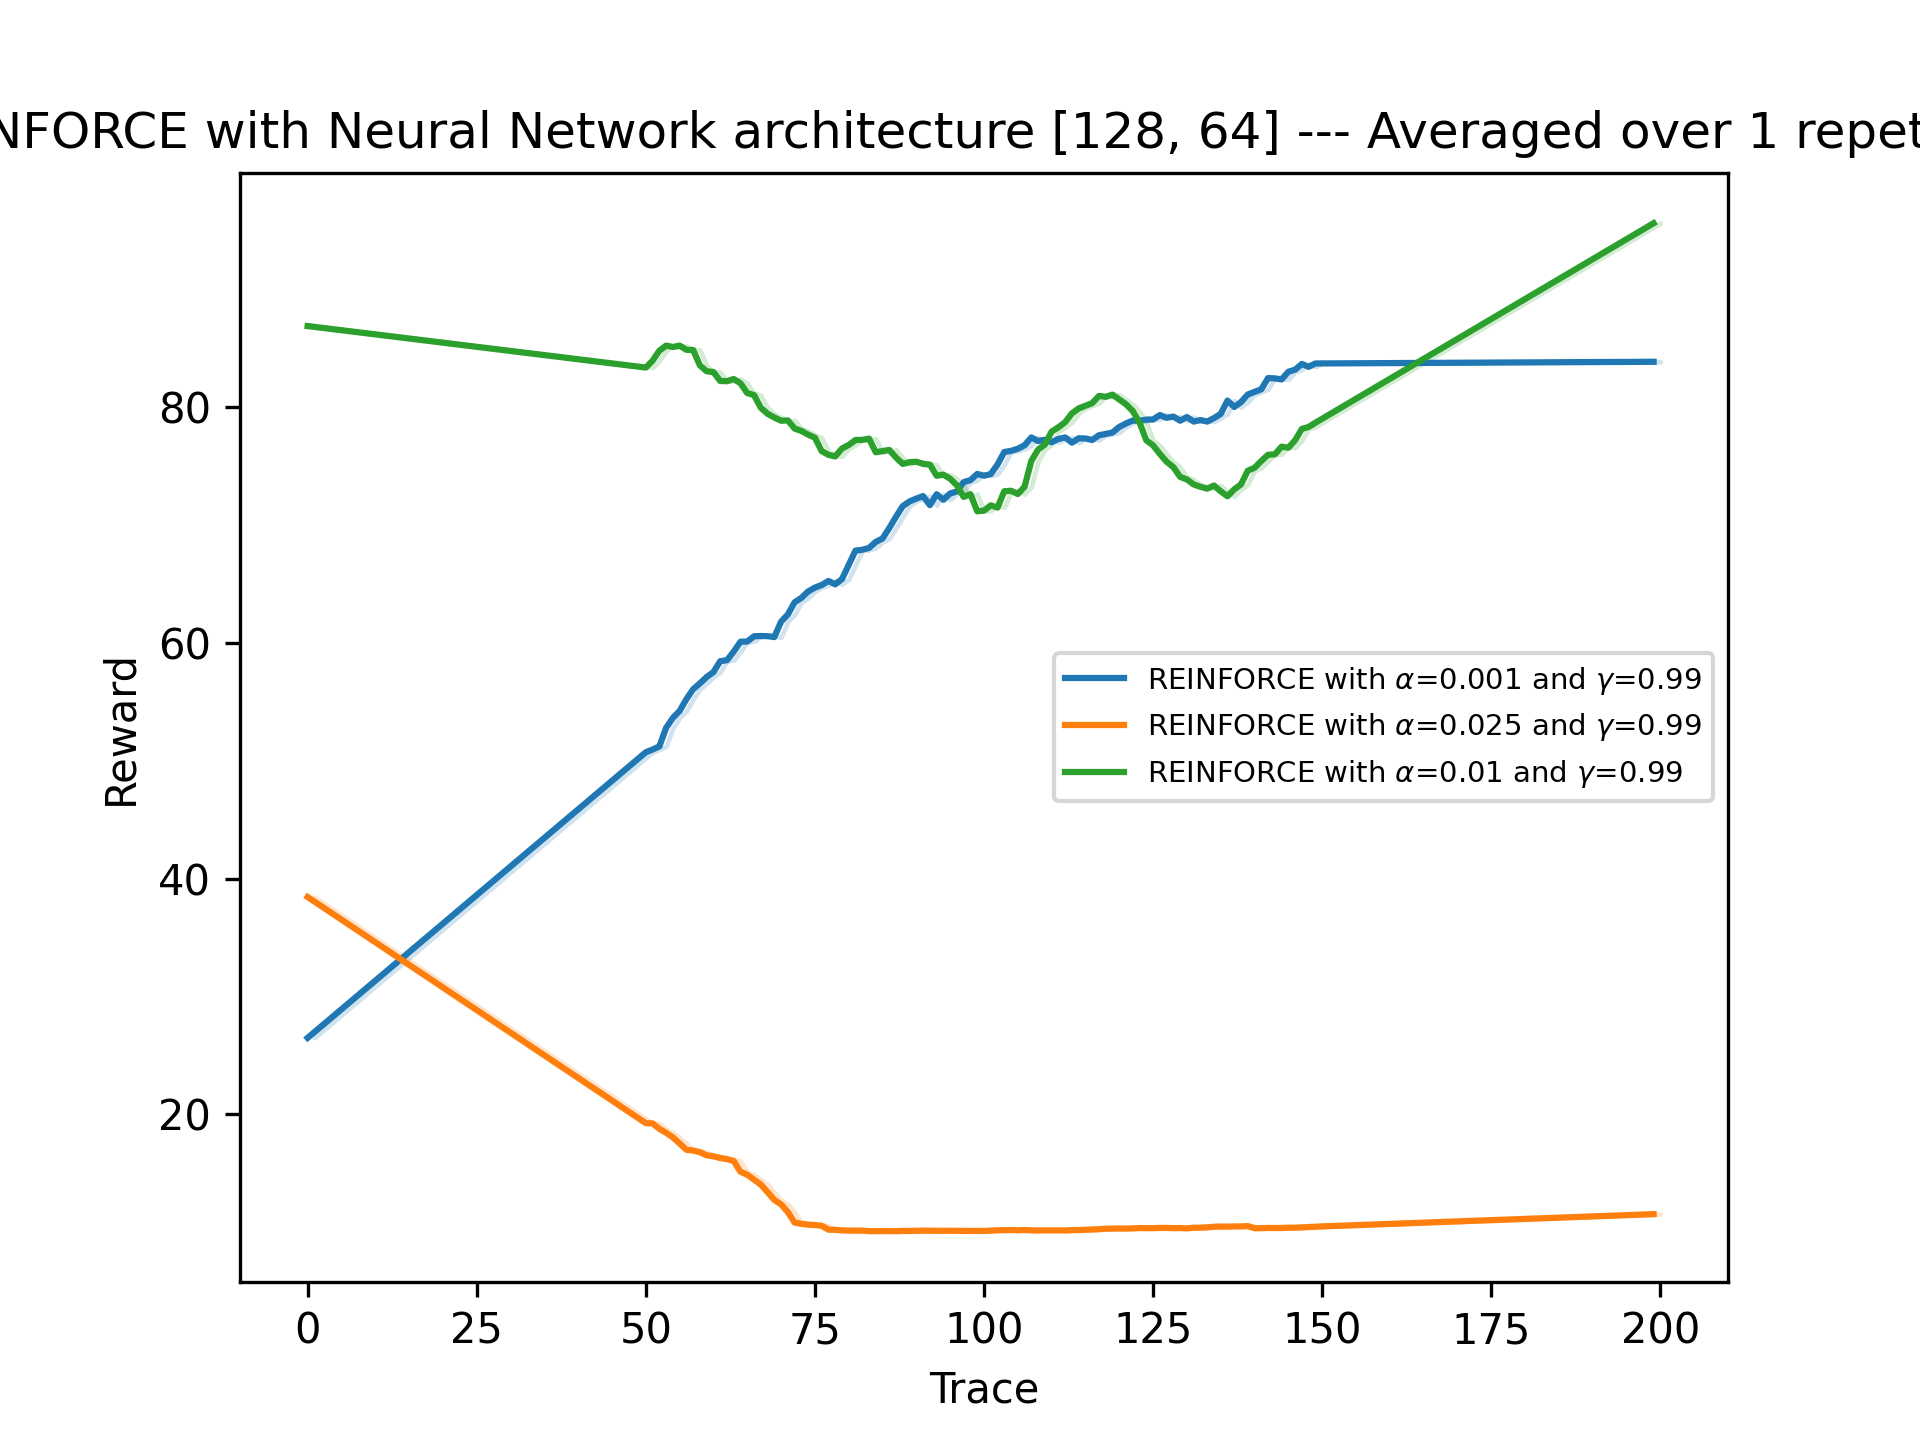
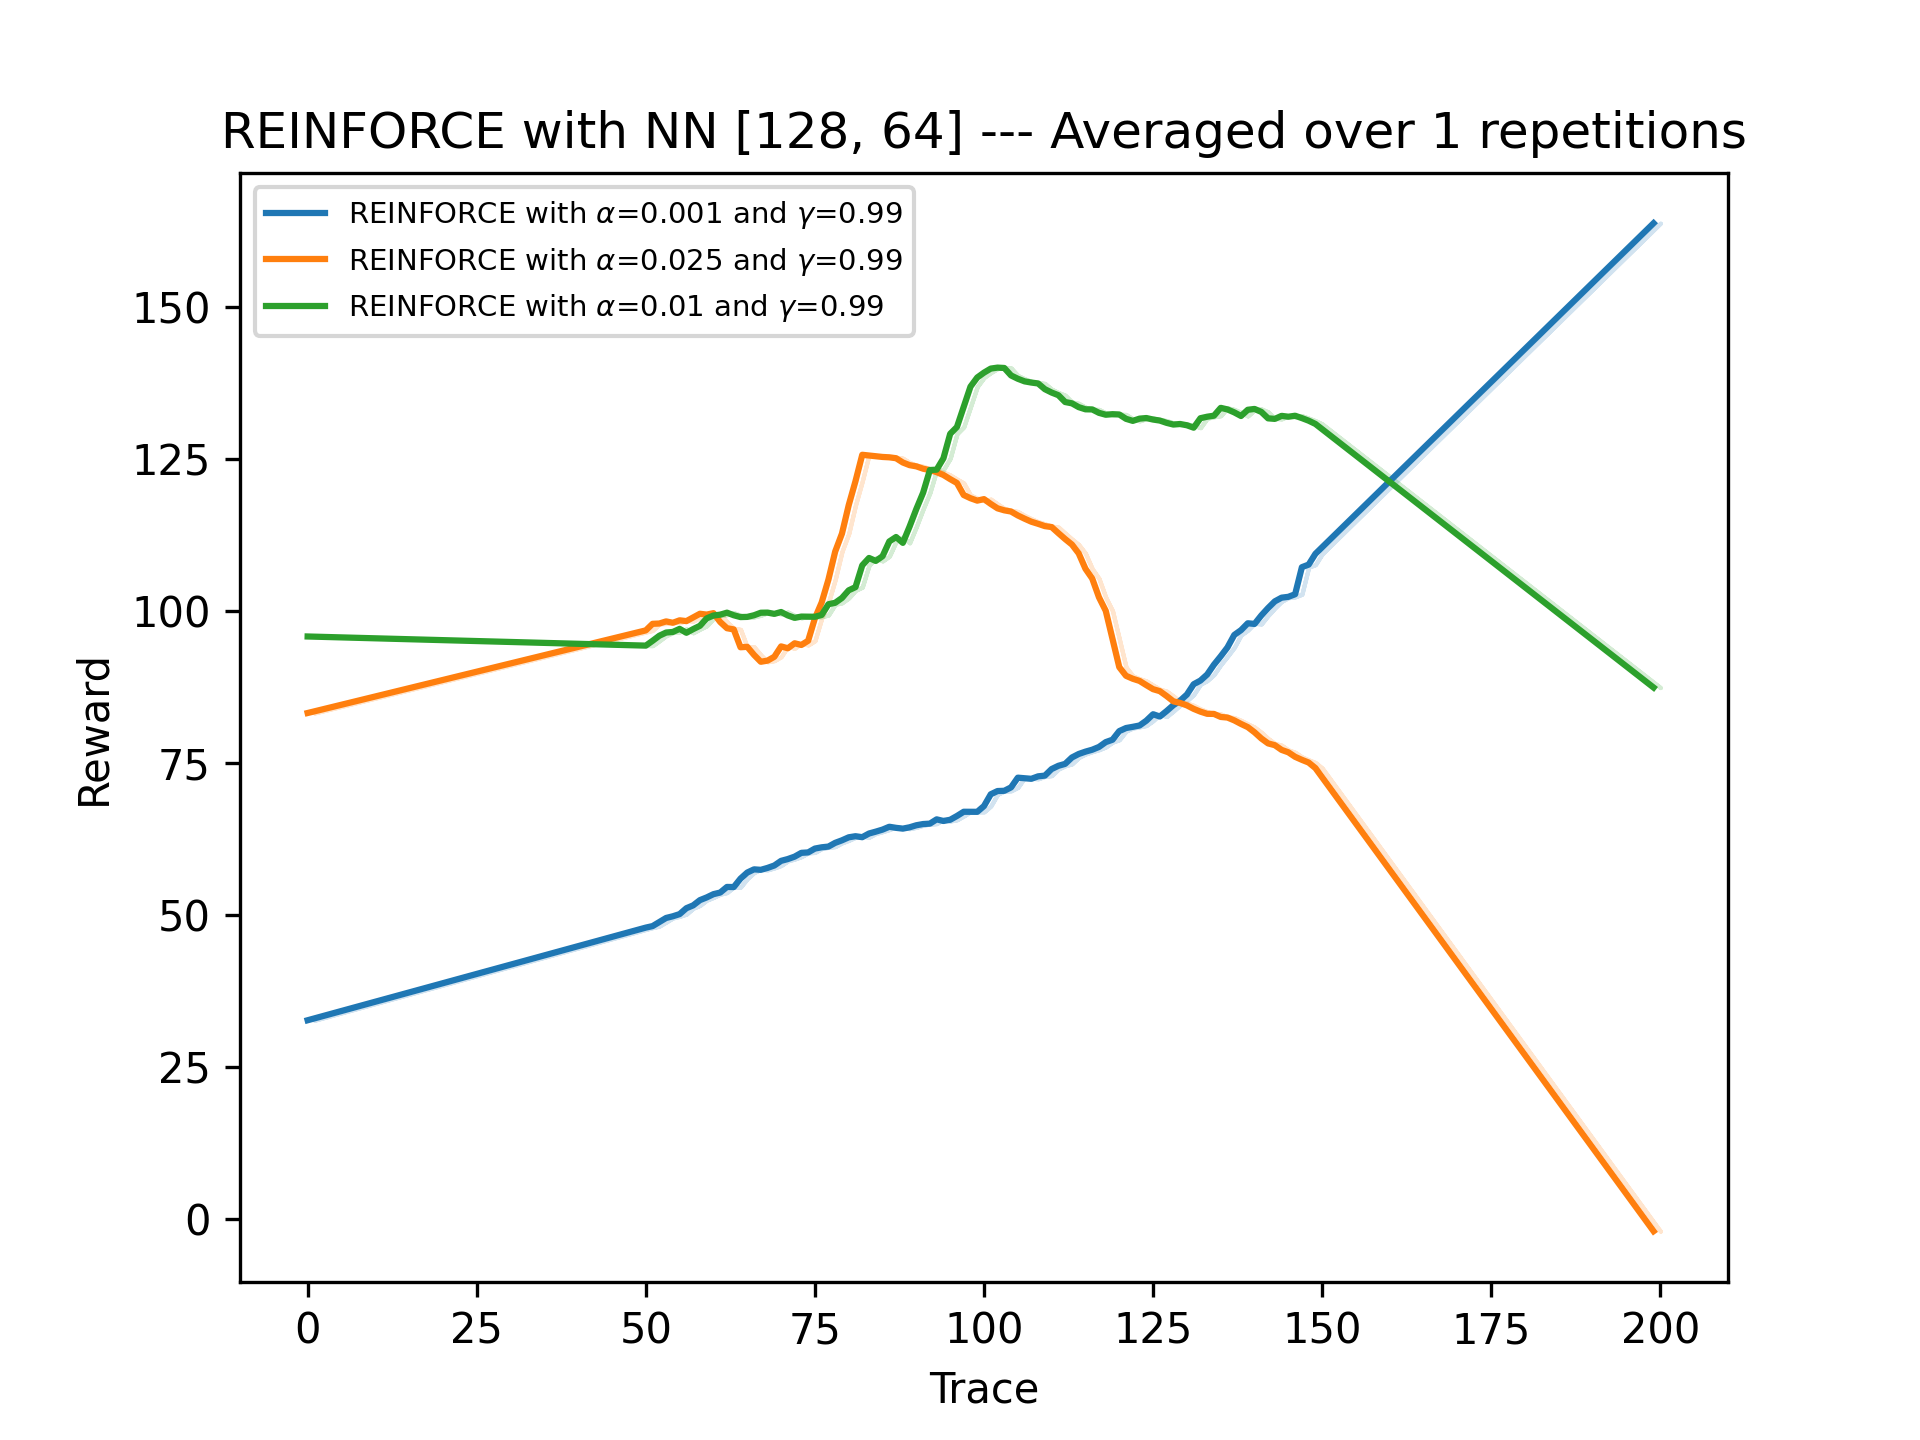
All tests implemented

diff --git a/experimenter.py b/experimenter.py
@@ -33,15 +33,15 @@ def average_over_repetitions(n_repetitions, n_traces, n_timesteps, param_dict, s
     return learning_curve, standard_error
 
 
-def experiment(method: str, option: str = None, test: str = None):
-    n_repetitions = 1 # 20
-    n_traces = 200 # 2500
+def experiment(method: str, option: str):
+    n_repetitions = 20 # 20
+    n_traces = 2000 # 2000
     n_timesteps = 500
     smoothing_window = 101
 
     if method == 'REINFORCE':
         ### Method: REINFORCE
-        if test == 'NN':
+        if option == 'NN':
             gamma = 0.99
             alpha = 0.001
             architecture = [64, 128, 256, [256, 128], [128, 64]]
@@ -68,7 +68,7 @@ def experiment(method: str, option: str = None, test: str = None):
                 run += 1
             Plot.save('REINFORCE_NN.png')
 
-        elif test == 'alpha':
+        elif option == 'alpha':
             gamma = 0.99
             learning_rates = [0.001, 0.025, 0.01]
             NN = [128, 64]
@@ -97,54 +97,48 @@ def experiment(method: str, option: str = None, test: str = None):
     elif method == 'Actor-critic':
         n_traces = 1  # TODO: we use for this method epochs with each epoch having a 'small' number of traces
         epochs = 500
-        alpha_1 = [0.001, 0.025, 0.01]
-        alpha_2 = [0.001, 0.025, 0.01]
-        NN_actor = []
-        NN_critic = []
-        n_depth = 10
+        learning_rate = [0.001, 0.025, 0.01]
+        n_depth = [10, 30, 50]
         colours = ["#1f77b4", "#ff7f0e", "#2ca02c", "#d62728", "#9467bd", "#8c564b", "#e377c2", "#7f7f7f", "#bcbd22"]
 
         if option == 'bootstrapping':
             ### Method: Actor-critic with bootstrapping
             run = 0
             Plot = LearningCurvePlot(title=f'{method} --- Averaged over {n_repetitions} repetitions')
-            for a1 in alpha_1:
-                for a2 in alpha_2:
+            for alpha in learning_rate:
+                for depth in n_depth:
                     param_dict = {
                         'epochs': epochs,
-                        'alpha_1': a1,
-                        'alpha_2': a2,
-                        'n_depth': n_depth,
+                        'alpha': alpha,
+                        'n_depth': depth,
                         'option': option,
                     }
 
-                    print(f'Running {method}-method with {option}: learning rate_actor ={a1} and  learning rate_critic ={a2}')
+                    print(f'Running {method}-method with {option}: learning rate {alpha}')
 
                     learning_curve, standard_error = average_over_repetitions(n_repetitions, n_traces, n_timesteps, param_dict, smoothing_window, method)
                     Plot.add_curve(x=np.arange(1, len(learning_curve)+1),
                                 y=learning_curve,
                                 std=standard_error,
                                 col=colours[run],
-                                label=r'Actor-critic with $\alpha_actor$={} and $\alpha_critic={}'.format(a1, a2))
+                                label=r'Actor-critic with $\alpha$ = {} and depth = {}'.format(alpha, depth))
                     run += 1
             Plot.save('Actor_critic_bootstrapping.png')
-
 
         elif option == 'baseline_subtraction':
             ### Method: Actor-critic with baseline subtraction
             run = 0
             Plot = LearningCurvePlot(title=f'{method} --- Averaged over {n_repetitions} repetitions')
-            for a1 in alpha_1:
-                for a2 in alpha_2:
+            for alpha in learning_rate:
+                for depth in n_depth:
                     param_dict = {
                         'epochs': epochs,
-                        'alpha_1': a1,
-                        'alpha_2': a2,
-                        'n_depth': n_depth,
-                        'option': option
+                        'alpha': alpha,
+                        'n_depth': depth,
+                        'option': option,
                     }
 
-                    print(f'Running {method}-method with {option}: learning rate_actor ={a1} and  learning rate_critic ={a2}')
+                    print(f'Running {method}-method with {option}: learning rate = {alpha}')
 
                     learning_curve, standard_error = average_over_repetitions(n_repetitions, n_traces, n_timesteps, param_dict,
                                                                             smoothing_window, method)
@@ -152,7 +146,7 @@ def experiment(method: str, option: str = None, test: str = None):
                                 y=learning_curve,
                                 std=standard_error,
                                 col=colours[run],
-                                label=r'Actor-critic with $\alpha_actor$={} and $\alpha_critic={}'.format(a1, a2))
+                                label=r'Actor-critic with $\alpha={} and depth = {}'.format(alpha, depth))
                     run += 1
                 Plot.save('Actor_critic_baseline_subtraction.png')
 
@@ -160,26 +154,26 @@ def experiment(method: str, option: str = None, test: str = None):
             ### Method: Actor-critic with bootstrapping and baseline subtraction
             run = 0
             Plot = LearningCurvePlot(title=f'{method} - {option} --- Averaged over {n_repetitions} repetitions')
-            for a1 in alpha_1:
-                for a2 in alpha_2:
+            for alpha in learning_rate:
+                for depth in n_depth:
                     param_dict = {
                         'epochs': epochs,
-                        'alpha_1': a1,
-                        'alpha_2': a2,
-                        'n_depth': n_depth,
-                        'option': option
+                        'alpha': alpha,
+                        'n_depth': depth,
+                        'option': option,
                     }
 
-                    print(f'{method}-method with {option}: learning rate_actor ={a1} and  learning rate_critic ={a2}')
+                    print(f'{method}-method with {option}: learning rate = {alpha}')
 
                     learning_curve, standard_error = average_over_repetitions(n_repetitions, n_traces, n_timesteps, param_dict, smoothing_window, method)
                     Plot.add_curve(x=np.arange(1, len(learning_curve)+1),
                                 y=learning_curve,
                                 std=standard_error,
                                 col=colours[run],
-                                label=r'Actor-critic with $\alpha_actor$={} and $\alpha_critic={}'.format(a1, a2))
+                                label=r'Actor-critic with $\alpha={} and depth = {}'.format(alpha, depth))
                     run += 1
             Plot.save('Actor_critic_both.png')
 
 if __name__ == '__main__':
-    experiment(method='REINFORCE', option = 'bootstrapping', test = 'alpha')
+    experiment(method='REINFORCE', option = 'bootstrapping')
+    # option = 'NN', 'alpha', 'bootstrapping', 'baseline_subtraction', 'boostrapping_baseline'

diff --git a/actor_critic.py b/actor_critic.py
@@ -12,8 +12,7 @@ class Actor_Critic_Agent:
         self.n_states = env.observation_space.shape[0]
         self.n_actions = env.action_space.n
 
-        self.learning_rate_actor = param_dict['alpha_1']
-        self.learning_rate_critic = param_dict['alpha_2']
+        self.learning_rate = param_dict['alpha']
         self.n_depth = param_dict['n_depth']
         self.option = param_dict['option']
 
@@ -23,8 +22,8 @@ class Actor_Critic_Agent:
         self.model_actor = self._initialize_nn(type='actor')
         self.model_critic = self._initialize_nn(type='critic')
 
-        self.optimizer_actor = torch.optim.Adam(self.model_actor.parameters(), lr=self.learning_rate_actor)
-        self.optimizer_critic = torch.optim.Adam(self.model_critic.parameters(), lr=self.learning_rate_critic)
+        self.optimizer_actor = torch.optim.Adam(self.model_actor.parameters(), lr=self.learning_rate)
+        self.optimizer_critic = torch.optim.Adam(self.model_critic.parameters(), lr=self.learning_rate)
 
     def _initialize_nn(self, type: str = 'actor'):
         """ Initialize neural network. """
